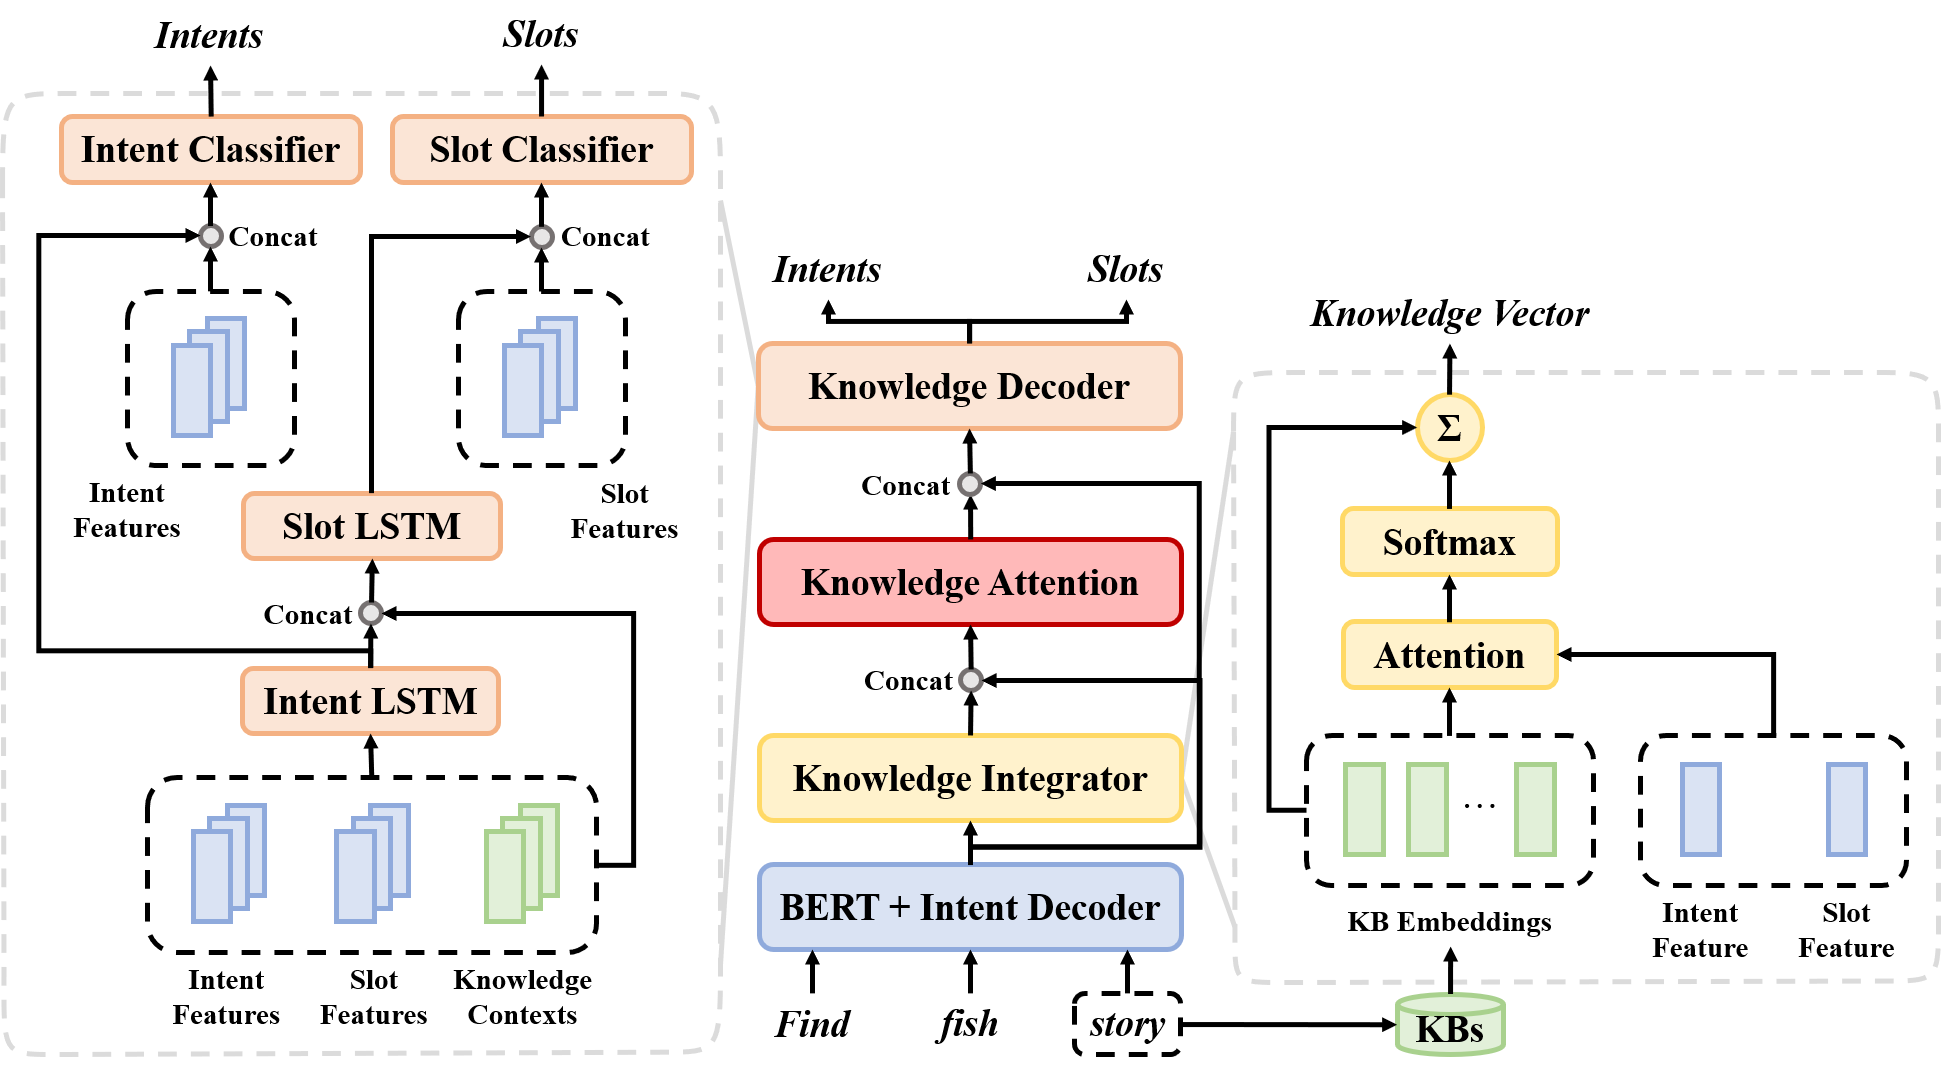
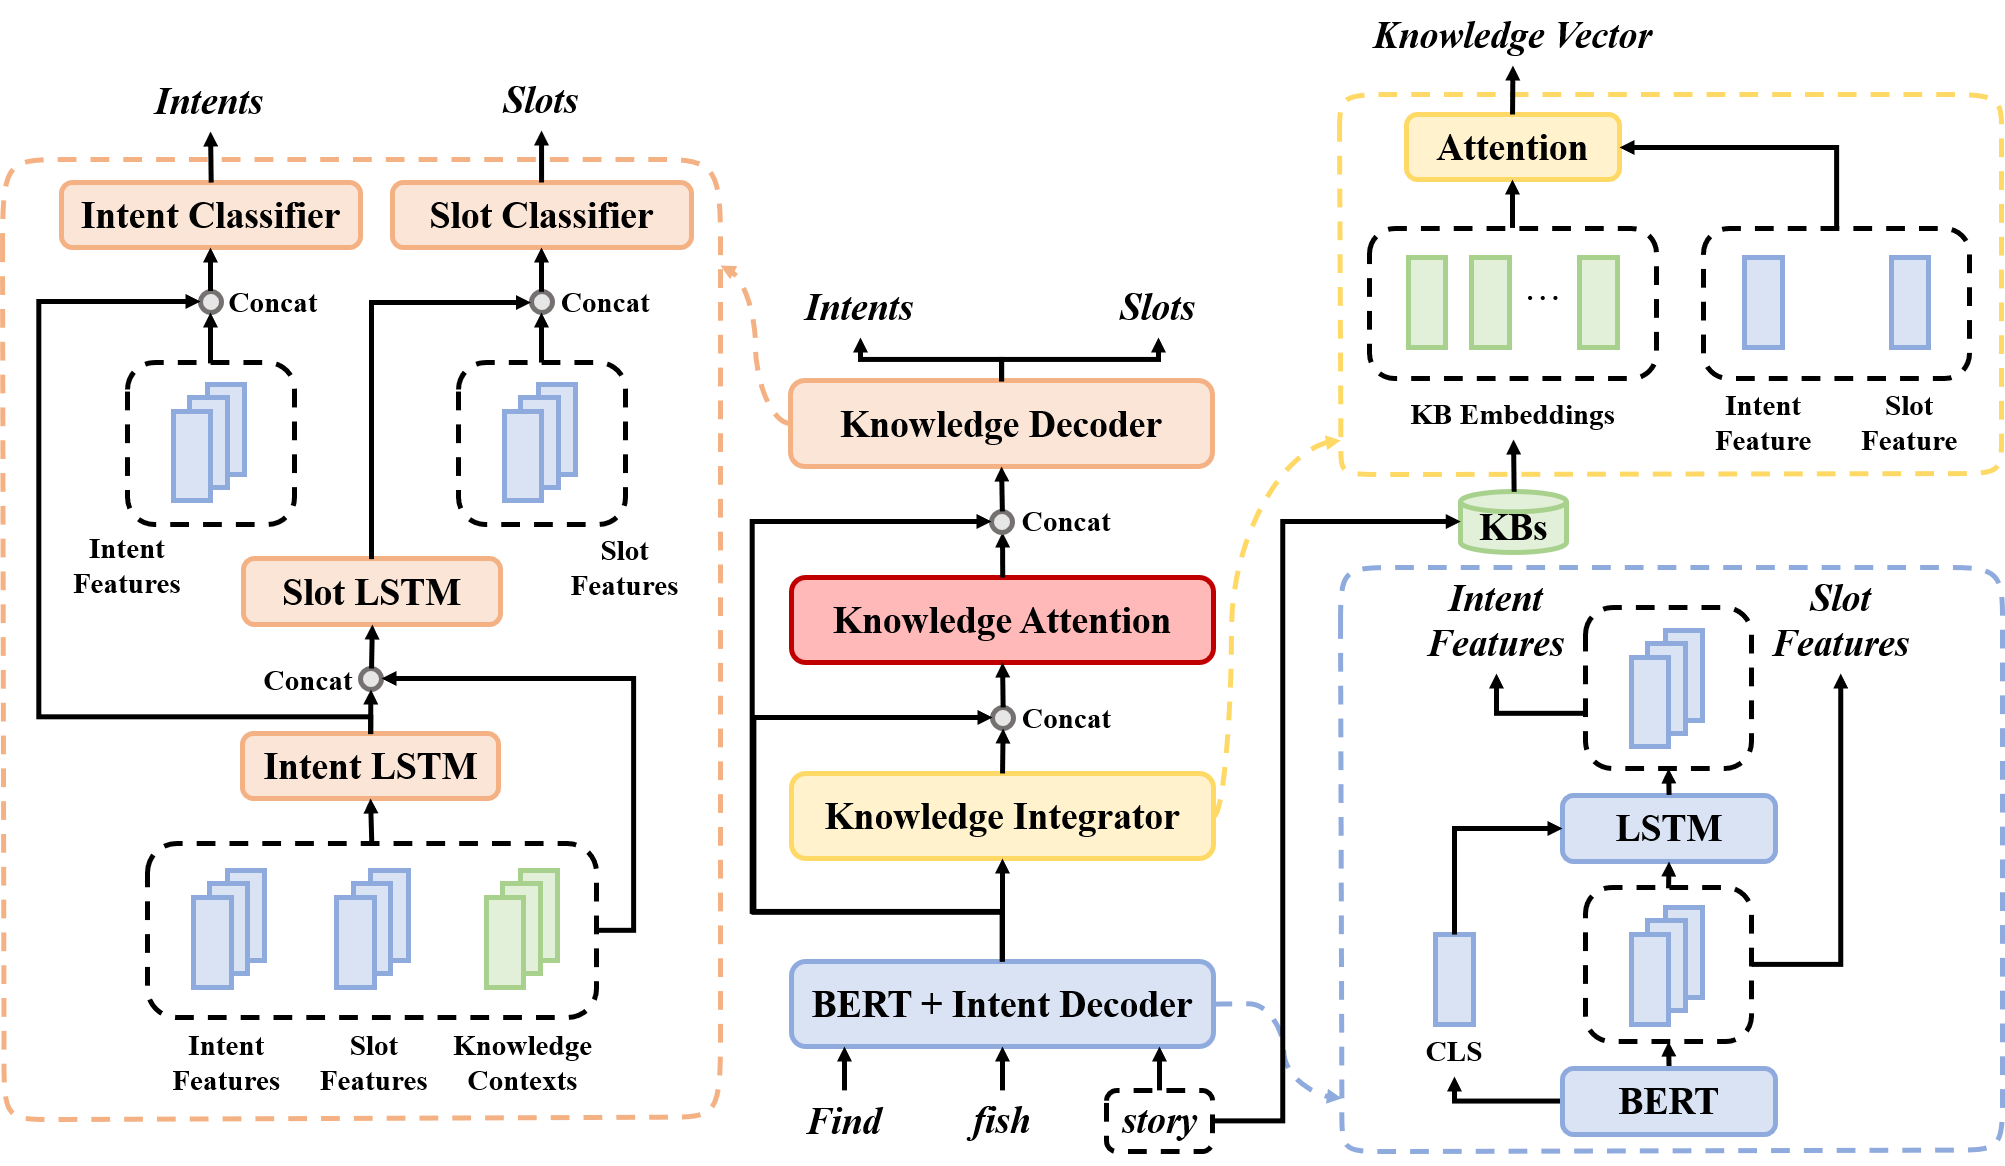
README

diff --git a/README.md b/README.md
@@ -2,14 +2,8 @@
 
 ## Model
 
-- Overall
 <p float="left" align="center">
-    <img width="600" src="res/model.png" />
-</p>
-
-- BERT + Intent Decoder
-<p float="left" align="center">
-    <img width="300" src="res/layer_1.png" />
+    <img width="800" src="res/model.png" />
 </p>
 
 ## Dependencies
